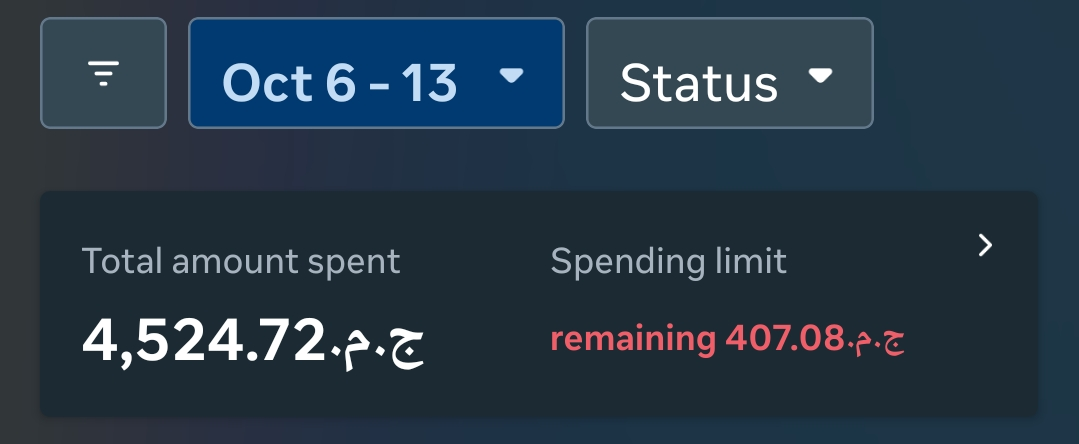
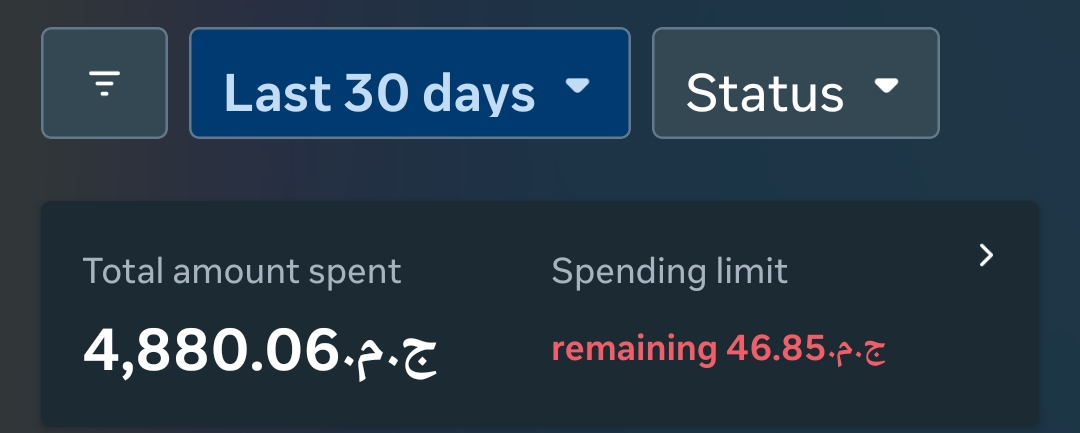
update the result

diff --git a/index.html b/index.html
@@ -26,7 +26,7 @@
       <div class="eyebrow"><span></span> PERFORMANCE MEDIA · EGYPT</div>
       <h1>Making every campaign work harder for <em>growth.</em></h1>
       <p class="lede">Performance marketing shaped by clear testing, thoughtful execution, and a focus on business outcomes.</p>
-      <div class="hero-actions"><a class="button button-primary" href="https://wa.me/201151930659" target="_blank" rel="noopener">Let’s talk <span aria-hidden="true">↗</span></a><a class="button button-outline" href="#work">Explore my work <span aria-hidden="true">↓</span></a></div>
+      <div class="hero-actions"><a class="button button-primary" href="https://wa.me/201151930659" target="_blank" rel="noopener">Let’s talk <span aria-hidden="true">↗</span></a><a class="button button-outline" href="#social-proof">Explore my work <span aria-hidden="true">↓</span></a></div>
       <div class="hero-note"><span class="live-dot"></span> Available for opportunities and freelance projects</div>
     </div>
     <figure class="hero-portrait"><img src="images/basem-photo.jpg" alt="Portrait of Basem Mohamed"><figcaption><span class="live-dot"></span> BASEM MOHAMED <small>PERFORMANCE MARKETER</small></figcaption></figure>
@@ -35,8 +35,8 @@
 
   <section class="metric-strip" id="results" aria-label="Portfolio metrics">
     <div class="metric"><span>HANDS-ON EXPERIENCE</span><strong>6 <small>months</small></strong></div>
-    <div class="metric"><span>AD SPEND MANAGED</span><strong>50K<small>+ EGP</small></strong></div>
-    <div class="metric"><span>GROSS SALES GENERATED</span><strong>400K<small> EGP</small></strong></div>
+    <div class="metric"><span>AD SPEND MANAGED</span><strong>60K<small> EGP</small></strong></div>
+    <div class="metric"><span>GROSS SALES GENERATED</span><strong>470K<small> EGP</small></strong></div>
     <div class="metric"><span>CLIENT INDUSTRIES</span><strong>06</strong></div>
   </section>
 
@@ -100,8 +100,12 @@
   <section class="case-studies-section section-shell" id="case-studies" aria-labelledby="case-studies-title">
     <div class="case-studies-heading"><div class="eyebrow"><span></span> SELECTED CAMPAIGN WORK</div><h2 id="case-studies-title">Case Studies</h2><p>Campaign context, results, and the work behind them.</p></div>
     <div class="case-study-list">
-      <article class="case-study-card"><div class="case-study-title"><span>CASE STUDY 01</span><h3>Case study title</h3></div><figure class="case-study-visual"><button class="case-study-zoom" type="button" aria-label="View case study one campaign results full size"><img src="images/case_result_1.png" alt="Campaign results for case study one" loading="lazy"></button><figcaption>CAMPAIGN RESULTS</figcaption></figure><figure class="spend-visual"><img src="images/spent_1.jpeg" alt="Ad spend for case study one" loading="lazy"><figcaption>AD SPEND</figcaption></figure><div class="case-study-description"><p>Generated EGP 50K+ in under 7 days through website optimization, strategic launch timing, competitive creatives, and FOMO-driven urgency.</p></div></article>
-      <article class="case-study-card"><div class="case-study-title"><span>CASE STUDY 02</span><h3>Case study title</h3></div><figure class="case-study-visual"><button class="case-study-zoom" type="button" aria-label="View case study two campaign results full size"><img src="images/case_result_2.png" alt="Campaign results for case study two" loading="lazy"></button><figcaption>CAMPAIGN RESULTS</figcaption></figure><figure class="spend-visual"><img src="images/spent_2.jpeg" alt="Ad spend for case study two" loading="lazy"><figcaption>AD SPEND</figcaption></figure><div class="case-study-description"><p>Generated EGP 25K+ in sales for a new brand & new product by selecting a product based on customer behavior, creating relevant content, and testing pricing strategies.</p></div></article>
+      <article class="case-study-card"><div class="case-study-title"><span>CASE STUDY 1</span><h3>Case study 1</h3></div><figure class="case-study-visual"><button class="case-study-zoom" type="button" aria-label="View case study 1 campaign results full size"><img src="images/case_result_1.png" alt="Campaign results for case study 1" loading="lazy"></button><figcaption>CAMPAIGN RESULTS</figcaption></figure><figure class="spend-visual"><img src="images/spent_1.jpeg" alt="Ad spend for case study 1" loading="lazy"><figcaption>AD SPEND</figcaption></figure><div class="case-study-description"><p>Generated EGP 50K+ in under 7 days through website optimization, strategic launch timing, competitive creatives, and FOMO-driven urgency.</p></div></article>
+      <article class="case-study-card"><div class="case-study-title"><span>CASE STUDY 2</span><h3>Case study 2</h3></div><figure class="case-study-visual"><button class="case-study-zoom" type="button" aria-label="View case study 2 campaign results full size"><img src="images/case_result_2.png" alt="Campaign results for case study 2" loading="lazy"></button><figcaption>CAMPAIGN RESULTS</figcaption></figure><figure class="spend-visual"><img src="images/spent_2.jpeg" alt="Ad spend for case study 2" loading="lazy"><figcaption>AD SPEND</figcaption></figure><div class="case-study-description"><p>Generated EGP 25K+ in sales for a new brand & new product by selecting a product based on customer behavior, creating relevant content, and testing pricing strategies.</p></div></article>
+      <article class="case-study-card"><div class="case-study-title"><span>CASE STUDY 3</span><h3>Case study 3</h3></div><figure class="case-study-visual"><button class="case-study-zoom" type="button" aria-label="View case study 3 campaign results full size"><img src="images/case_result_3.png" alt="Campaign results for case study 3" loading="lazy"></button><figcaption>CAMPAIGN RESULTS</figcaption></figure><figure class="spend-visual"><img src="images/spent_3.jpeg" alt="Ad spend for case study 3" loading="lazy"><figcaption>AD SPEND</figcaption></figure><div class="case-study-description"><p>Generated $120K in sales through Meta Ads messaging campaigns for a fashion brand.
+Generated 859 messaging conversations across selected campaigns, with costs as low as 2.58 EGP per conversation.</p></div></article>
+      <article class="case-study-card"><div class="case-study-title"><span>CASE STUDY 4</span><h3>Case study 4</h3></div><figure class="case-study-visual"><button class="case-study-zoom" type="button" aria-label="View case study 4 campaign results full size"><img src="images/case_result_4.png" alt="Campaign results for case study 4" loading="lazy"></button><figcaption>CAMPAIGN RESULTS</figcaption></figure><figure class="spend-visual"><img src="images/spent_4.jpeg" alt="Ad spend for case study 4" loading="lazy"><figcaption>AD SPEND</figcaption></figure><div class="case-study-description"><p>Generated 2,500+ messaging conversations for Ceramica Cleopatra through targeted Meta Ads campaigns.
+Achieved a cost per conversation as low as 1.48 EGP, maximizing lead generation efficiency..</p></div></article>
     </div>
   </section>
 
